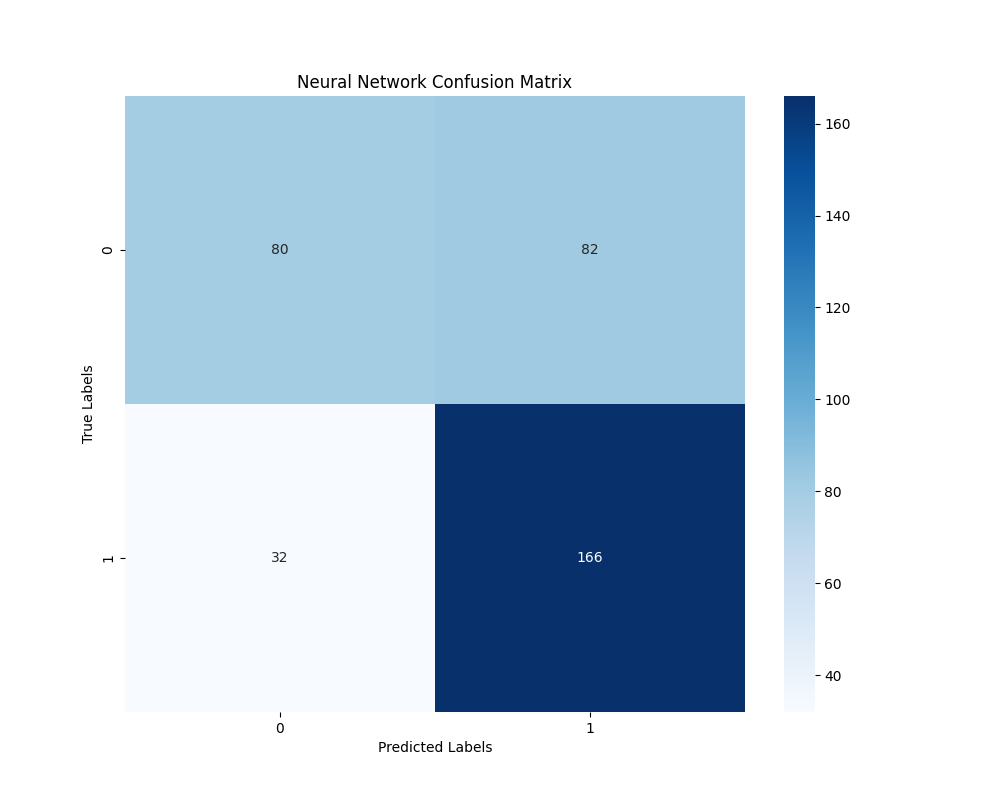
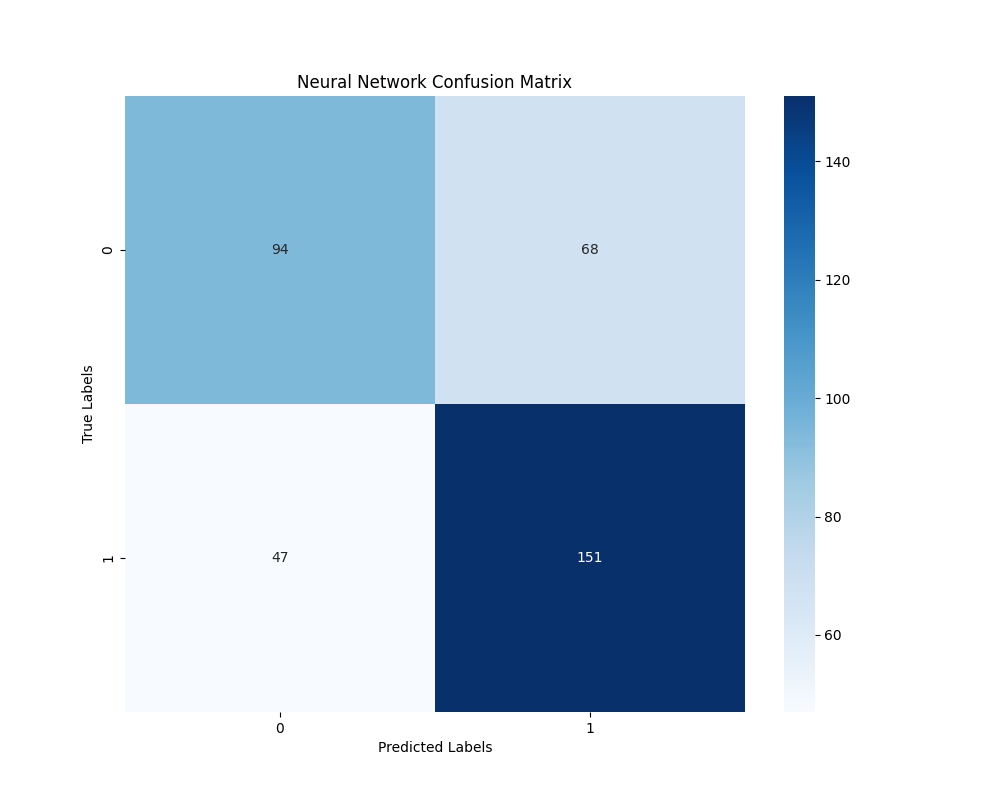
changed neural_network

diff --git a/steps/trainandpredictnn.py b/steps/trainandpredictnn.py
@@ -1,4 +1,6 @@
 import pandas as pd
+from keras.src.callbacks import ReduceLROnPlateau, EarlyStopping
+from keras.src.optimizers import Adagrad, Adam
 from zenml import step
 import tensorflow as tf
 from keras._tf_keras.keras.utils import load_img
@@ -36,14 +38,32 @@ def compilecomplexneuralnetwork(X_train: pd.DataFrame) -> Sequential:
         Dense(64, activation='relu', kernel_regularizer=l2(0.001)),
         BatchNormalization(),
         Dropout(0.3),
-        Dense(32, activation='relu', kernel_regularizer=l2(0.001)),
-        BatchNormalization(),
-        Dropout(0.2),
         Dense(16, activation='relu', kernel_regularizer=l2(0.001)),
         Dense(1, activation='sigmoid')
     ])
 
     model.compile(optimizer='adam', loss='binary_crossentropy', metrics=['accuracy'])
+    return model
+
+@step(enable_cache=False)
+def compilesimpleneuralnetwork(X_train: pd.DataFrame) -> Sequential:
+    model = Sequential([
+        Dense(32, activation='relu', kernel_regularizer=l2(0.001), input_shape=(X_train.shape[1],)),
+        BatchNormalization(),
+        Dropout(0.4),
+        Dense(64, activation='relu', kernel_regularizer=l2(0.001)),
+        BatchNormalization(),
+        Dropout(0.3),
+        Dense(32, activation='relu', kernel_regularizer=l2(0.001)),
+        BatchNormalization(),
+        Dropout(0.2),
+        Dense(16, activation='relu', kernel_regularizer=l2(0.001)),
+        BatchNormalization(),
+        Dense(8, activation='relu', kernel_regularizer=l2(0.001)),
+        Dense(1, activation='sigmoid')
+    ])
+
+    model.compile(optimizer = 'adam', loss='binary_crossentropy', metrics=['accuracy'])
     return model
 
 
@@ -55,12 +75,25 @@ def plotmodel(model: Sequential):
 @step(enable_cache=False)
 def trainmodel(model: Sequential, X_train: pd.DataFrame, y_train: pd.Series,
                X_test: pd.DataFrame, y_test: pd.Series):
+
+    reduce_lr = ReduceLROnPlateau(
+        monitor='val_loss',
+        factor=0.1,
+        patience=10,
+        min_lr=0.0001
+    )
+    early_stopping = EarlyStopping(
+        monitor='val_loss',
+        patience=25,
+        restore_best_weights=True
+    )
+
     history = model.fit(
         X_train, y_train,
         batch_size=16,
-        epochs=100,
+        epochs=130,
         validation_data=(X_test, y_test),
-        #callbacks=[reduce_lr]
+        callbacks=[reduce_lr, early_stopping],
     )
     return model
 

diff --git a/steps/dataengineering.py b/steps/dataengineering.py
@@ -65,11 +65,11 @@ def calculateavgstat(df: pd.DataFrame) -> pd.DataFrame:
 
     for stat_type, columns in team1_stats.items():
         df[f'T1_avg_{stat_type}'] = df[columns].mean(axis=1, skipna=True)
-        df[f'T1_sum_{stat_type}'] = df[columns].sum(axis=1, skipna=True)
+        #df[f'T1_sum_{stat_type}'] = df[columns].sum(axis=1, skipna=True)
 
     for stat_type, columns in team2_stats.items():
         df[f'T2_avg_{stat_type}'] = df[columns].mean(axis=1, skipna=True)
-        df[f'T2_sum_{stat_type}'] = df[columns].sum(axis=1, skipna=True)
+        #df[f'T2_sum_{stat_type}'] = df[columns].sum(axis=1, skipna=True)
 
     df = df.drop(columns=player_stats_columns)
     print(df.head())

diff --git a/pipelines/trainpipelineneuralnetwork.py b/pipelines/trainpipelineneuralnetwork.py
@@ -14,7 +14,8 @@ def train_neuralnetwork_pipeline():
     y_test = client.get_artifact_version(name_id_or_prefix='splittingdatapipeline::traintestsplit::output_3')
 
     #model = trainandpredictnn.compileneuralnetwork(X_train)
-    model = trainandpredictnn.compilecomplexneuralnetwork(X_train)
+    #model = trainandpredictnn.compilecomplexneuralnetwork(X_train)
+    model = trainandpredictnn.compilesimpleneuralnetwork(X_train)
     trainandpredictnn.plotmodel(model)
     trainedmodel = trainandpredictnn.trainmodel(model=model, X_train=X_train, y_train=y_train,
                                                 X_test=X_test, y_test=y_test)

diff --git a/steps/ensemblemodels.py b/steps/ensemblemodels.py
@@ -15,8 +15,6 @@ def ensemble_models(model1: Sequential, model2: RandomForestClassifier, model3: 
 
     model1_wrapped = KerasClassifier(model=model1)
     model1_wrapped.fit(X_train, y_train)
-    #model2.fit(X_test, y_test)
-    #model3.fit(X_test, y_test)
 
     ensemble_model = VotingClassifier(
         estimators=[
